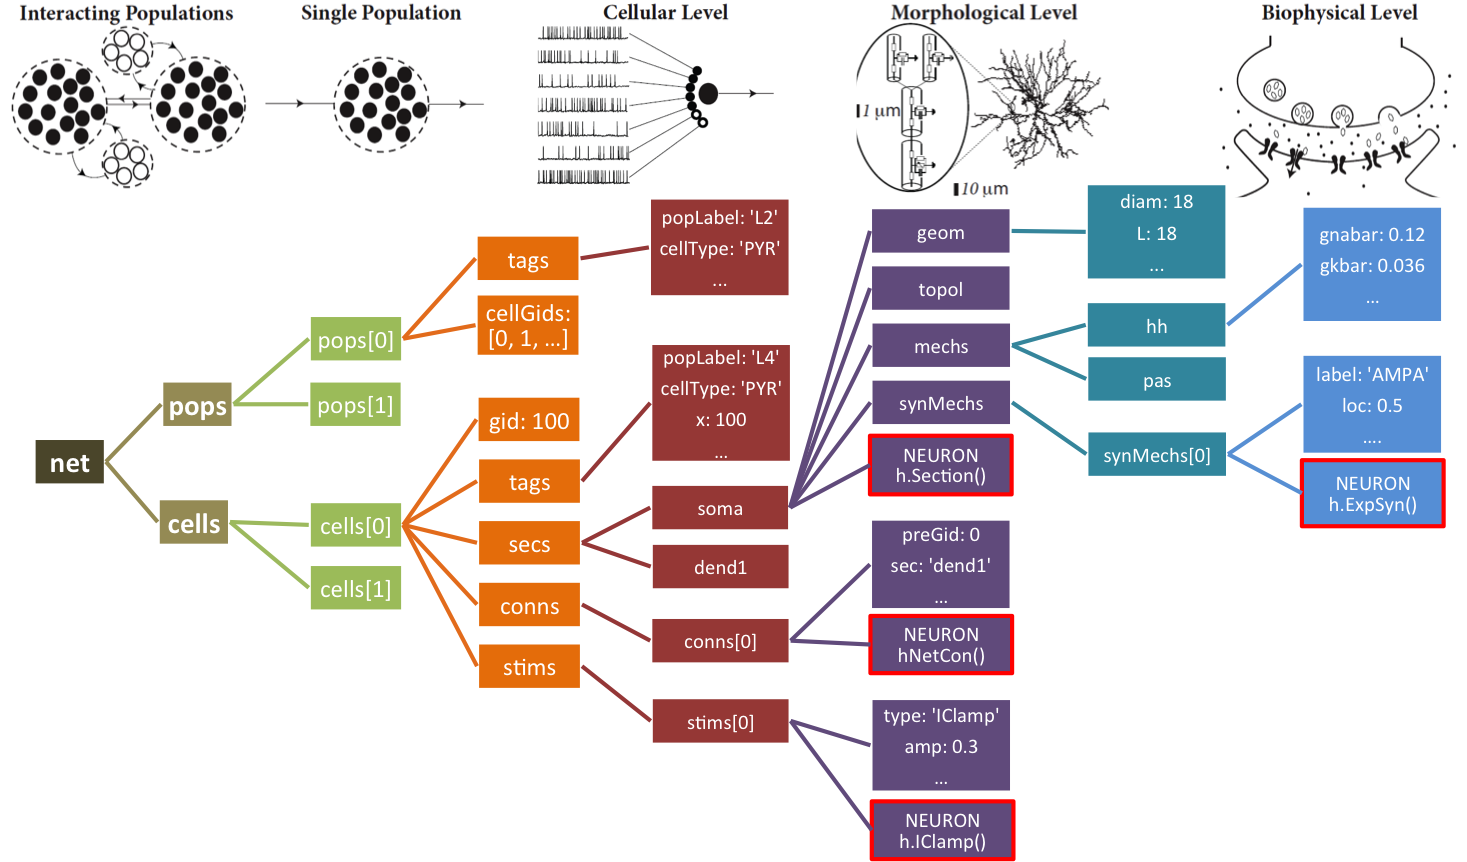
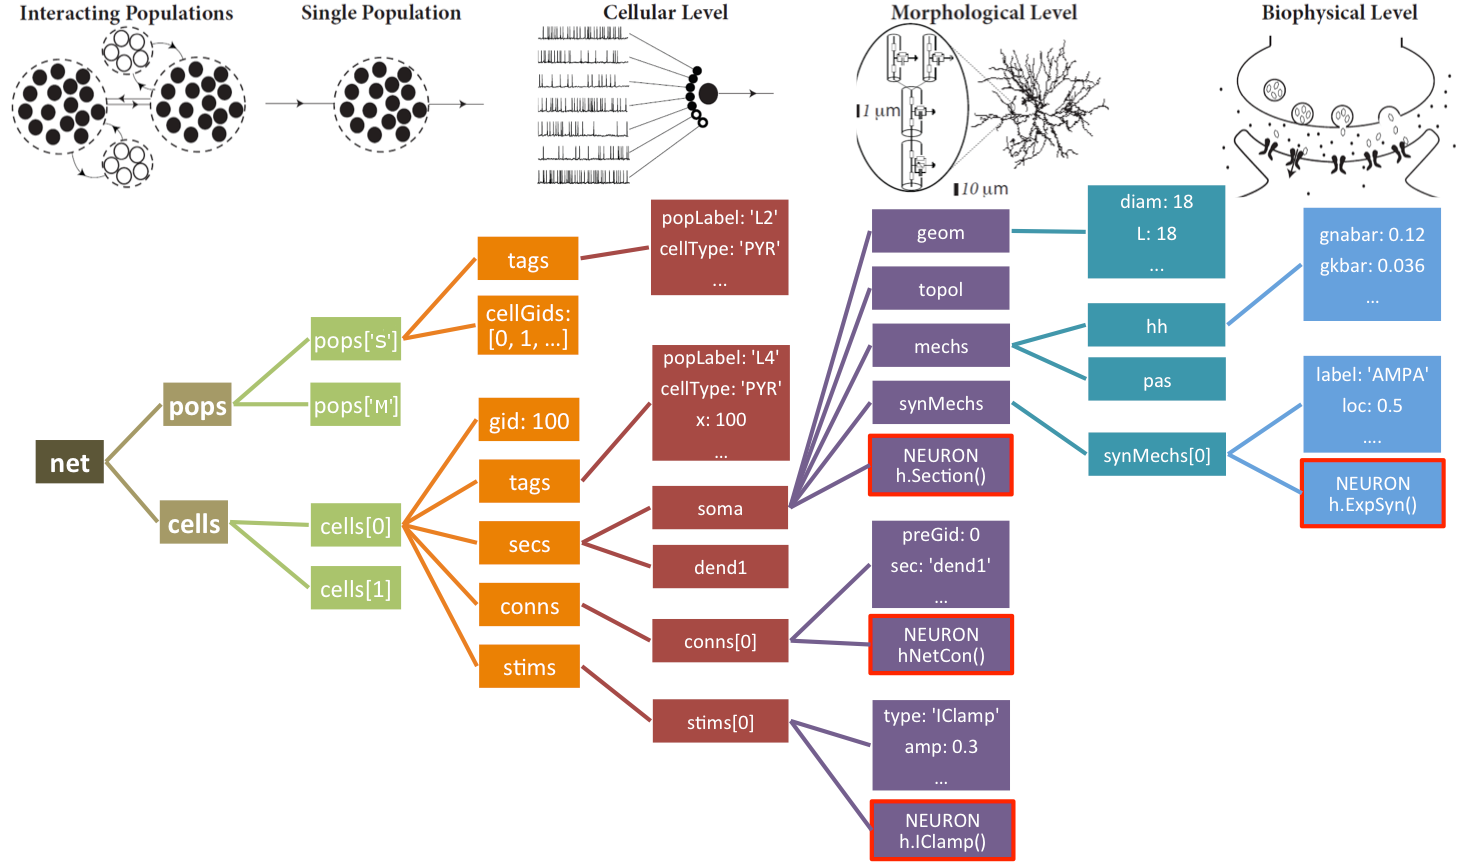
fixed bug in clearAll() + update documentation
*Fixed bug in clearAll(): When called after "sim.create()", some elements are missing in the sim.net object (elements defined in gatherData, called from "sim.simulate()").
*Figure for the NetPyNE struct. Pops are part of a dictionary. Here, exemplified by keys from tutorial 2.
*Update a missed field in RxD description: "constants".

diff --git a/netpyne/sim/utils.py b/netpyne/sim/utils.py
@@ -215,6 +215,29 @@ def gitChangeset(show=True):
 
     return changeset
 
+#------------------------------------------------------------------------------
+# Print git info: branch, source_dir, version
+#------------------------------------------------------------------------------
+def gitInfo(show=True):
+    """
+    Function for/to <short description of `netpyne.sim.utils.gitInfo`>
+
+    Parameters
+    ----------
+    show : bool
+        <Short description of show>
+        **Default:** ``True``
+        **Options:** ``<option>`` <description of option>
+
+    """
+    import netpyne, os, subprocess
+    loc = os.path.dirname(netpyne.__file__)
+    vers, branch = subprocess.check_output(['git', '-C', loc, 'rev-parse', 'HEAD', '--abbrev-ref', 'HEAD']).decode('utf-8').split()
+    orig = subprocess.check_output(['git', '-C', loc, 'remote', 'get-url', 'origin']).decode('utf-8').strip()
+    if show: 
+        print(f'NetPyNE branch "{branch}" from {loc} (version:{vers[:8]} origin:{orig})')
+    else: 
+        return [branch, loc, vers, orig]
 
 #------------------------------------------------------------------------------
 # Hash function for string
@@ -886,10 +909,12 @@ def clearAll():
                 if 'stims' in list(sim.allSimData.keys()):
                     sim.clearObj([stim for stim in sim.allSimData['stims']])
             
-            if hasattr(sim, 'net'):
+            if hasattr(sim.net, 'allCells'):
                 for c in sim.net.allCells: del c
-                for p in sim.net.allPops: del p
                 del sim.net.allCells
+            if hasattr(sim.net, 'allPops'):
+                for p in sim.net.allPops: del p
+                del sim.net.allPops
             
             if hasattr(sim, 'allSimData'):
                 del sim.allSimData

diff --git a/doc/source/reference.rst b/doc/source/reference.rst
@@ -860,6 +860,7 @@ The ``rxdParams`` ordered dictionary can be used to define the different RxD com
 
 			netParams.rxdParams['rates'] = {'h_evol':{'species': h_gate, 'rate': '(1. / (1 + 1000. * ca[cyt] / (0.3)) - h_gate) / tau'}}
 
+* **constants** - Dictionary specifying constants used by the user in, for example, string-based functions.
 
 The parameters of each dictionary follow the same structure as described in the RxD package: https://www.neuron.yale.edu/neuron/static/docs/rxd/index.html 
 
